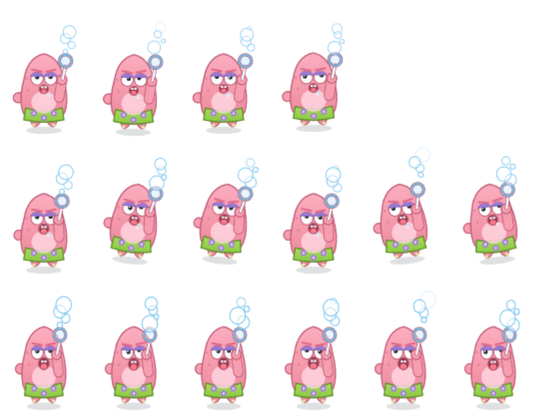
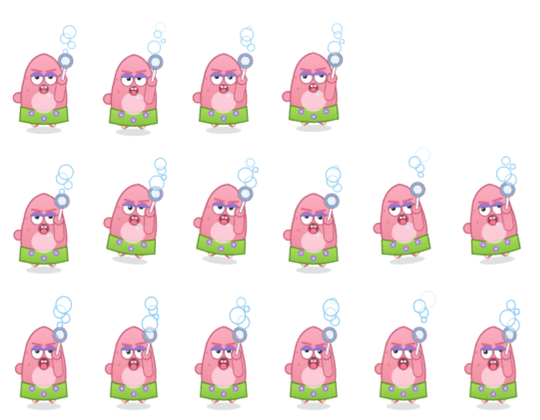
派大星短裤加宽；宠物模式按真实边界贴住窗口底边
1) 派大星的绿短裤原来裤腰只有 ±31~34 宽，而身体最宽处是 ±37，
   裤子比身体窄，两侧就被身体露出来了。加宽到 ±39~41，完全盖住，
   裤上的花也跟着铺开。

2) 宠物模式贴底：以前主界面和宠物模式都用画布固定 94% 高度，
   所以宠物脚下永远差 6%。现在分开：
   - 主界面保持 94%（视觉居中）
   - 宠物模式按「宠物真实边界」贴住窗口底边

   关键是那个余量不能写死：生成皮肤时逐帧扫描内容最低点到格子底边的
   距离，取最小值存进 skin.json 的 bottomGap 字段，程序读它精确换算。
   实测宠物模式底部留白从 22px 降到 3~7px（剩下的是待机呼吸弹跳本身
   的起伏，我取的是所有帧的最小值）。

   （中间我把公式符号写反了一次：内容底边在原点【上方】，原点要放到
   画布下方才对。符号改对后从 16~24px 降到 3~7px。）

diff --git a/build/make-skins.js b/build/make-skins.js
@@ -811,14 +811,15 @@ function drawStar(ctx, q, p, kind) {
 
   /* ---- 绿短裤 ---- */
   ctx.beginPath();
-  ctx.moveTo(-31, 22); ctx.quadraticCurveTo(0, 32, 31, 22);
-  ctx.lineTo(34, 42); ctx.quadraticCurveTo(0, 50, -34, 42);
+  /* 裤腰比身体最宽处（±37）还要宽一点，否则身体两侧会露出来 */
+  ctx.moveTo(-39, 20); ctx.quadraticCurveTo(0, 33, 39, 20);
+  ctx.lineTo(41, 44); ctx.quadraticCurveTo(0, 55, -41, 44);
   ctx.closePath();
   const sg = ctx.createLinearGradient(0, 22, 0, 46);
   sg.addColorStop(0, '#A8DE5C'); sg.addColorStop(1, '#8CC843');
   ctx.fillStyle = sg; ctx.fill();
   ctx.strokeStyle = '#5E8F2A'; ctx.lineWidth = 2.2; ctx.stroke();
-  [[-17, 31], [17, 31], [0, 39]].forEach(function (pt) {
+  [[-21, 31], [21, 31], [0, 40]].forEach(function (pt) {
     ctx.fillStyle = '#A97FE0';
     for (let k = 0; k < 5; k++) {
       const a = k / 5 * TAU - Math.PI / 2;
@@ -1591,11 +1592,33 @@ app.whenReady().then(async () => {
       }).resize({ width: fw * 6, height: FH * 3, quality: 'best' });
 
       const dir = path.join(root, 'skins', s.id);
+      /* 量一次「脚底到格子底边的余量」：宠物模式下要按它把宠物精确贴到窗口底边 */
       fs.mkdirSync(dir, { recursive: true });
       fs.writeFileSync(path.join(dir, 'sheet.png'), img.toPNG());
+      /* 先量底部余量：扫所有帧，取内容最低点到格子底边的距离 */
+      let bottomGap = 0;
+      {
+        const gi = nativeImage.createFromPath(path.join(dir, 'sheet.png'));
+        const gb = gi.toBitmap(), gs = gi.getSize();
+        const GA = (xx, yy) => gb[(yy * gs.width + xx) * 4 + 3];
+        let minGap = 999;
+        for (let r = 0; r < 3; r++) {
+          for (let c = 0; c < 6; c++) {
+            let last = -1;
+            for (let yy = 0; yy < FH; yy++) {
+              for (let xx = 0; xx < fw; xx++) {
+                if (GA(c * fw + xx, r * FH + yy) > 8) { last = yy; break; }
+              }
+            }
+            if (last >= 0 && FH - 1 - last < minGap) minGap = FH - 1 - last;
+          }
+        }
+        bottomGap = minGap === 999 ? 0 : minGap;
+      }
+
       fs.writeFileSync(path.join(dir, 'skin.json'), JSON.stringify({
         name: s.name, author: '',
-        frame: { w: fw, h: FH }, fps: 10, sheet: 'sheet.png',
+        frame: { w: fw, h: FH }, fps: 10, sheet: 'sheet.png',        /* 脚底到格子底边的真实余量(px)，程序据此刻精确贴底 */        bottomGap: bottomGap,
         animations: {
           /* 待机放慢：帧率太高会一直在抖，看久了很烦 */
           idle: { row: 0, count: 4, fps: 3.5 },

diff --git a/app.js b/app.js
@@ -380,7 +380,17 @@
       const s = Math.min(w / this.fit, h / this.fit);
 
       ctx.save();
-      ctx.translate(w / 2, h * 0.94);
+      /* 主界面：放在画布 94% 高度处（底部留一点，视觉上居中）。
+         宠物模式：直接贴住窗口底边 —— 但不能用画布底边，
+         因为生成的精灵图在格子底部还留了 5px 余量，
+         要按「宠物真实边界」往上退这 5px，脚才能真的踩到桌面底边。 */
+      let baseY = h * 0.94;
+      if (this.plain) {
+        const bg = skinState.meta && skinState.meta.bottomGap != null ? skinState.meta.bottomGap : 0;
+        const gapPx = skinState.ready ? bg * (310 / skinState.meta.frame.h) * s : 0;
+        baseY = h + gapPx;   // 内容底边在原点【上方】gapPx 处，所以原点要放到画布下方 gapPx，脚才落在底边
+      }
+      ctx.translate(w / 2, baseY);
       ctx.scale(s, s);
 
       /* plain = 宠物模式：桌面上只要角色本身，不要地面光圈和环绕粒子 */
